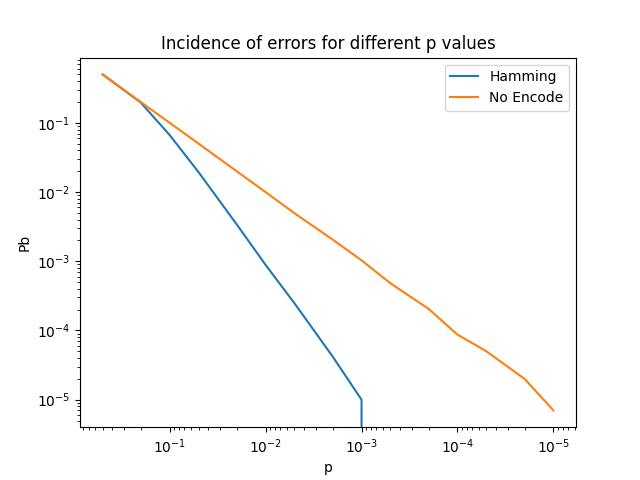
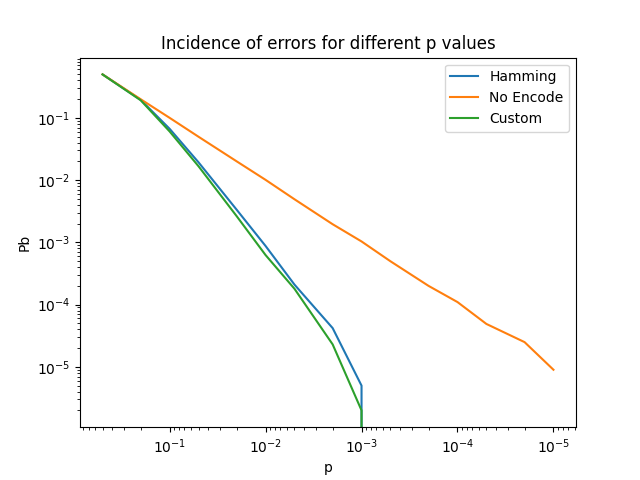
Adds custom encode

diff --git a/lab01_ELE32/main.py b/lab01_ELE32/main.py
@@ -4,6 +4,7 @@ import math
 from bsc import BSC
 from hamming import Hamming
 from no_encode import NoEncode
+from custom_encode import CustomEncode
 
 vector_length = 1000000
 
@@ -18,32 +19,50 @@ if __name__ == '__main__':
 
     prob_list_hamming = []
     prob_list_no_encode = []
+    prob_list_custom = []
     for p in p_list:
         information = np.random.randint(2, size=vector_length)
+
         hamming = Hamming(information)
         no_encode = NoEncode(information)
+        custom = CustomEncode(information)
+
         hamming_code = hamming.encoder()
-        no_encode_code = no_encode.code
+        no_encode_code = no_encode.encoder()
+        custom_code = custom.encoder()
+
         bsc_hamming = BSC(p, hamming_code)
         bsc_no_encode = BSC(p, no_encode_code)
+        bsc_custom = BSC(p, custom_code)
+
         received_code_hamming = bsc_hamming.transform_code()
         received_code_no_encode = bsc_no_encode.transform_code()
-        inferred_code_hamming = hamming.decoder(received_code_hamming)
-        inferred_info_hamming = inferred_code_hamming.flatten()
-        inferred_info_no_encode = received_code_no_encode
+        received_code_custom = bsc_custom.transform_code()
+
+        inferred_info_hamming = hamming.decoder(received_code_hamming)
+        inferred_info_no_encode = no_encode.decoder(received_code_no_encode)
+        inferred_info_custom = custom.decoder(received_code_custom)
+
         differences_hamming = np.bitwise_xor(np.array(inferred_info_hamming, dtype=np.int64), information)
         differences_no_encode = np.bitwise_xor(np.array(inferred_info_no_encode, dtype=np.int64), information)
+        differences_custom = np.bitwise_xor(np.array(inferred_info_custom, dtype=np.int64), information)
+
         num_of_errors_hamming = np.sum(differences_hamming)
         num_of_errors_no_encode = np.sum(differences_no_encode)
+        num_of_errors_custom = np.sum(differences_custom)
+
         error_prob_hamming = num_of_errors_hamming/vector_length
         error_prob_no_encode = num_of_errors_no_encode/vector_length
+        error_prob_custom = num_of_errors_custom/vector_length
+
         prob_list_hamming.append(error_prob_hamming)
         prob_list_no_encode.append(error_prob_no_encode)
+        prob_list_custom.append(error_prob_custom)
     
-    print(prob_list_hamming)
     plt.figure()
     plt.plot(p_list, prob_list_hamming, label="Hamming")
     plt.plot(p_list, prob_list_no_encode, label="No Encode")
+    plt.plot(p_list, prob_list_custom, label="Custom")
     plt.gca().invert_xaxis()
     plt.xscale('log')
     plt.yscale('log')

diff --git a/lab01_ELE32/custom_encode.py b/lab01_ELE32/custom_encode.py
@@ -3,29 +3,32 @@ from itertools import product
 
 
 
-class Hamming:
+class CustomEncode:
+    # garante acerto se até um erro for cometido
     def __init__(self, code):
         self.code = code
         self.size = len(self.code)
-        if self.size % 4 != 0:
-            raise ValueError("Code size must be divisable by 4")
-        self.transformation = np.array([[1, 0, 0, 0, 1, 1, 1], [0, 1, 0, 0, 1, 0, 1], [0, 0, 1, 0, 1, 1, 0], [0, 0, 0, 1, 0, 1, 1]])
-        self.verification = np.array([[1, 1, 1], [1, 0, 1], [1, 1, 0], [0, 1, 1], [1, 0, 0], [0, 1, 0], [0, 0, 1]])
+        self.word_size = 5
+        self.codified_word_size = 10
+        if self.size % self.word_size != 0:
+            raise ValueError(f"Code size must be divisable by {self.word_size}")
+        self.transformation = np.array([[1, 0, 0, 0, 0, 1, 1, 0, 0, 0], [0, 1, 0, 0, 0, 0, 1, 1, 0, 0], [0, 0, 1, 0, 0, 0, 0, 1, 1, 0], [0, 0, 0, 1, 0, 0, 0, 0, 1, 1], [0, 0, 0, 0, 1, 1, 0, 0, 0, 1]])
+        self.verification = np.array([[1, 1, 0, 0, 0], [0, 1, 1, 0, 0], [0, 0, 1, 1, 0], [0, 0, 0, 1, 1], [1, 0, 0, 0, 1], [1, 0, 0, 0, 0], [0, 1, 0, 0, 0], [0, 0, 1, 0, 0], [0, 0, 0, 1, 0], [0, 0, 0, 0, 1]])
 
     
     @property
     def divide_code(self):
-        matrix = np.array([self.code[i:i+4] for i in range(0, self.size, 4)])
+        matrix = np.array([self.code[i:i+self.word_size] for i in range(0, self.size, self.word_size)])
         return matrix
     
     @property
-    def generate_hamming(self):
+    def generate_transf(self):
         result = np.matmul(self.grouped_code, self.transformation)
         return np.remainder(result, 2)
 
     def get_dict(self):
         s_dict = {}
-        combinations = list(product([0, 1], repeat=7))
+        combinations = list(product([0, 1], repeat=self.codified_word_size))
         binary_array = np.array(combinations)
         row_sums = binary_array.sum(axis=1)
         sorted_binary_array = binary_array[np.argsort(row_sums)]
@@ -42,7 +45,7 @@ class Hamming:
 
     def encoder(self):
         self.grouped_code = self.divide_code
-        self.hamming_code = self.generate_hamming
+        self.hamming_code = self.generate_transf
         return self.hamming_code
 
     def decoder(self, received_code):
@@ -53,7 +56,7 @@ class Hamming:
             e = s_dict[s]
             received_code[i] = np.remainder(received_code[i] + e, 2)
         
-        information = received_code[:, :4]
+        information = received_code[:, :self.word_size]
         return information.flatten()
 
         

diff --git a/lab01_ELE32/no_encode.py b/lab01_ELE32/no_encode.py
@@ -6,4 +6,10 @@ class NoEncode:
     def __init__(self, code):
         self.code = np.array(code)
         self.size = len(self.code)
+    
+    def encoder(self):
+        return self.code
+    
+    def decoder(self, received_code):
+        return received_code
 
